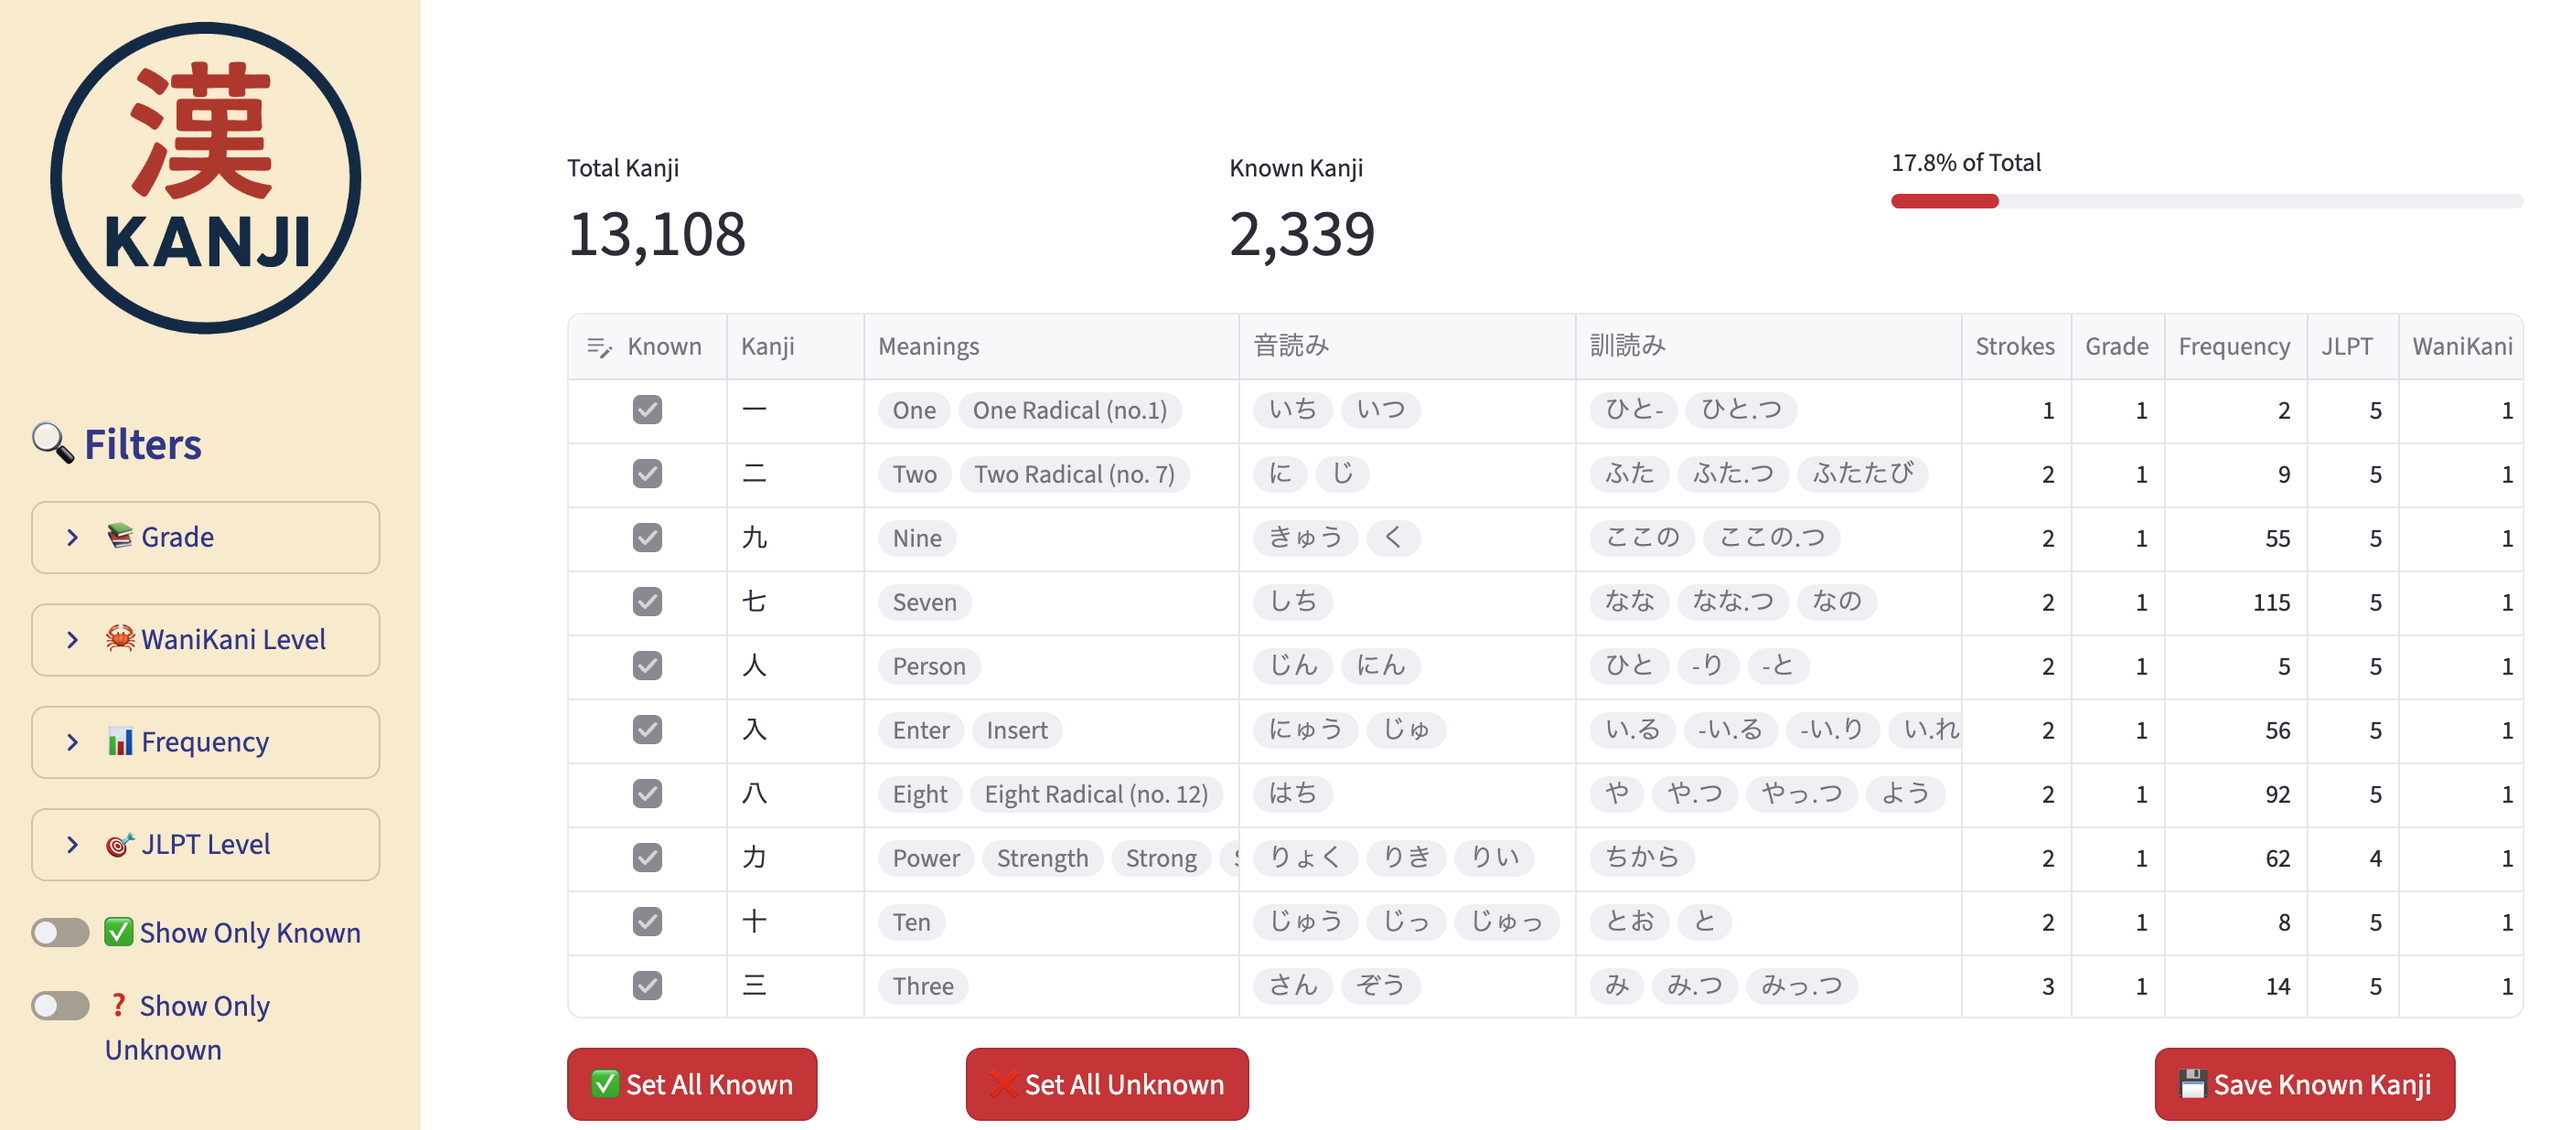
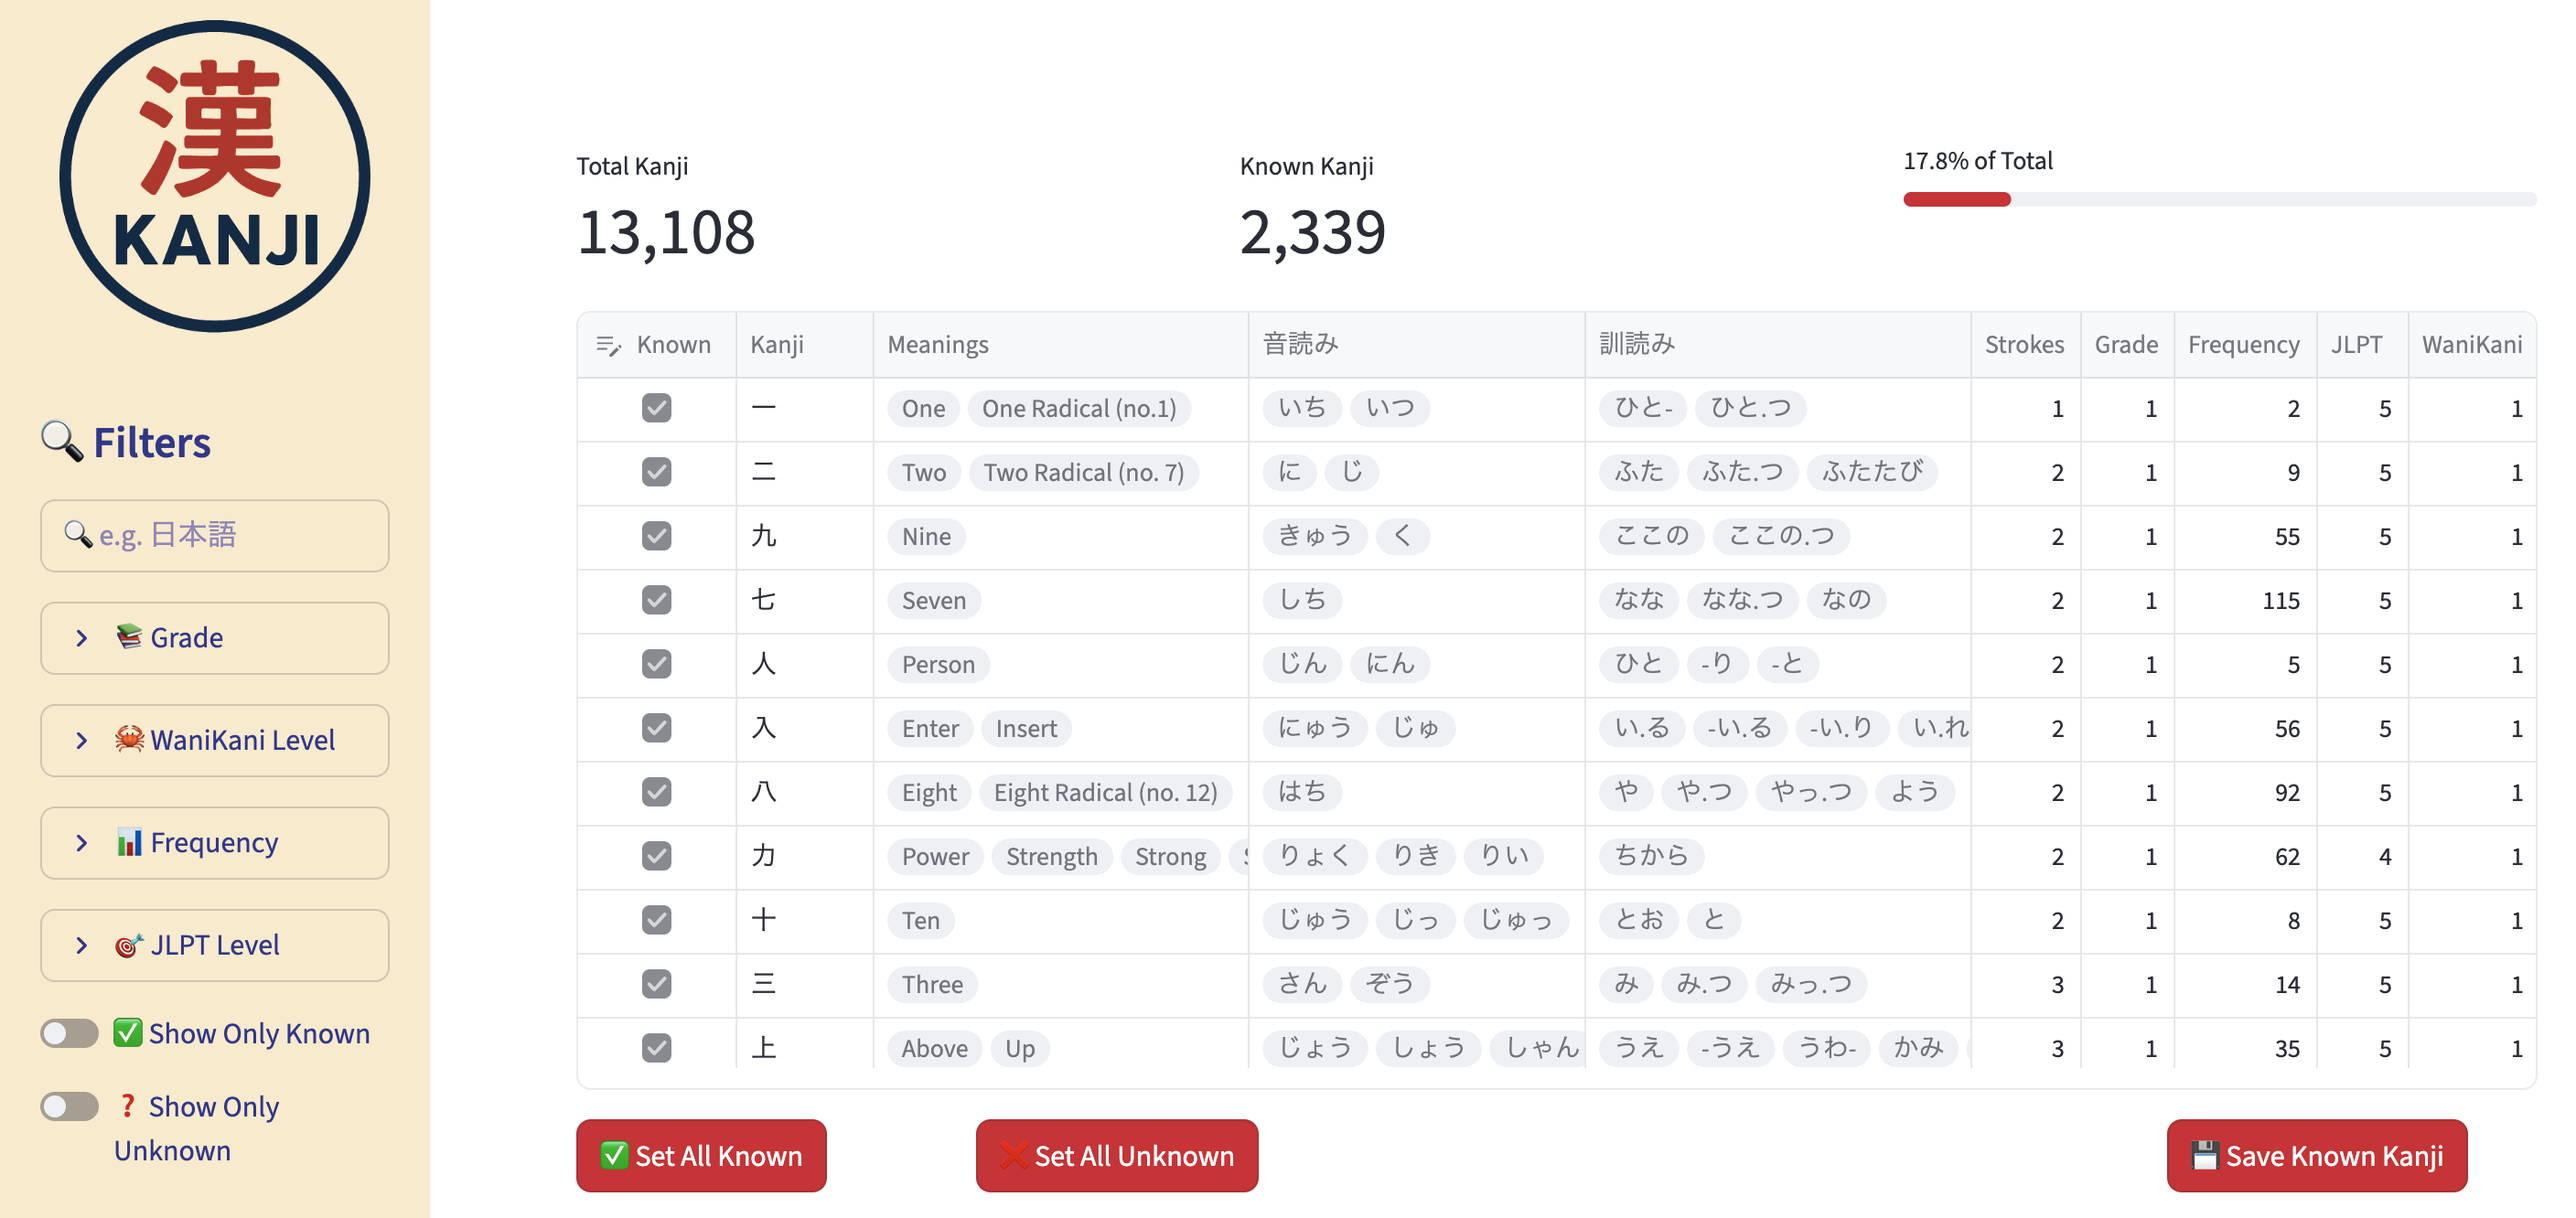
add search function to side panel

diff --git a/app.py b/app.py
@@ -41,6 +41,14 @@ def sidebar_multiselect_filter(label, series, include_unknown=True):
         mask |= series.isna()
     return mask
 
+# --- KANJI SEARCH ---
+raw_search = st.sidebar.text_input(
+    "Search Kanji",
+    placeholder="🔍 e.g. 日本語",
+    label_visibility="collapsed",
+)
+search_mask = df["kanji"].isin(list(raw_search)) if raw_search else pd.Series(True, index=df.index)
+
 with st.sidebar.expander("📚 Grade"):
     grade_mask = sidebar_multiselect_filter("Grades", df["grade"])
 
@@ -71,7 +79,7 @@ elif show_only_unknown:
     toggle_mask = ~df["kanji"].map(st.session_state.known_flags).fillna(False)
 
 # --- APPLY FILTERS ---
-filtered_df = df[grade_mask & wk_mask & freq_mask & jlpt_mask & toggle_mask].copy()
+filtered_df = df[search_mask & grade_mask & wk_mask & freq_mask & jlpt_mask & toggle_mask].copy()
 filtered_df["known"] = filtered_df["kanji"].map(st.session_state.known_flags).fillna(False)
 cols = ["known", "kanji"] + [c for c in filtered_df.columns if c not in ["known", "kanji"]]
 filtered_df = filtered_df[cols]
@@ -145,7 +153,7 @@ edited_df = table_placeholder.data_editor(
     column_config=column_configuration,
     use_container_width=True,
     hide_index=True,
-    height=max(window_height - 350, 250),
+    height=min(len(st.session_state.kanji_df) * 35 + 38, max(window_height - 350, 250)),
     disabled=[c for c in st.session_state.kanji_df.columns if c != "known"],
     key=f"kanji_table_{st.session_state.refresh_table_key}",  # dynamic key
     on_change=sync_known_flags,

diff --git a/utils/styling.py b/utils/styling.py
@@ -35,5 +35,26 @@ def css():
     [data-testid="stSidebar"] * {
         color: #3B3B98; /* Indigo */
     }
+
+    /* Sidebar search input — remove Streamlit's default white container border */
+    [data-testid="stSidebar"] [data-testid="stTextInput"] > div {
+        border: none !important;
+        box-shadow: none !important;
+        background-color: transparent !important;
+    }
+    [data-testid="stSidebar"] [data-testid="stTextInput"] input {
+        background-color: #FAEDD0;
+        border: 1px solid rgba(49, 51, 63, 0.2);
+        border-radius: 8px;
+        color: #3B3B98;
+    }
+    [data-testid="stSidebar"] [data-testid="stTextInput"] input:focus {
+        border-color: #3B3B98;
+        box-shadow: 0 0 0 2px rgba(59, 59, 152, 0.15);
+        outline: none;
+    }
+    [data-testid="stSidebar"] [data-testid="stTextInput"] input::placeholder {
+        color: #9B8FC0;
+    }
 </style>
 """
